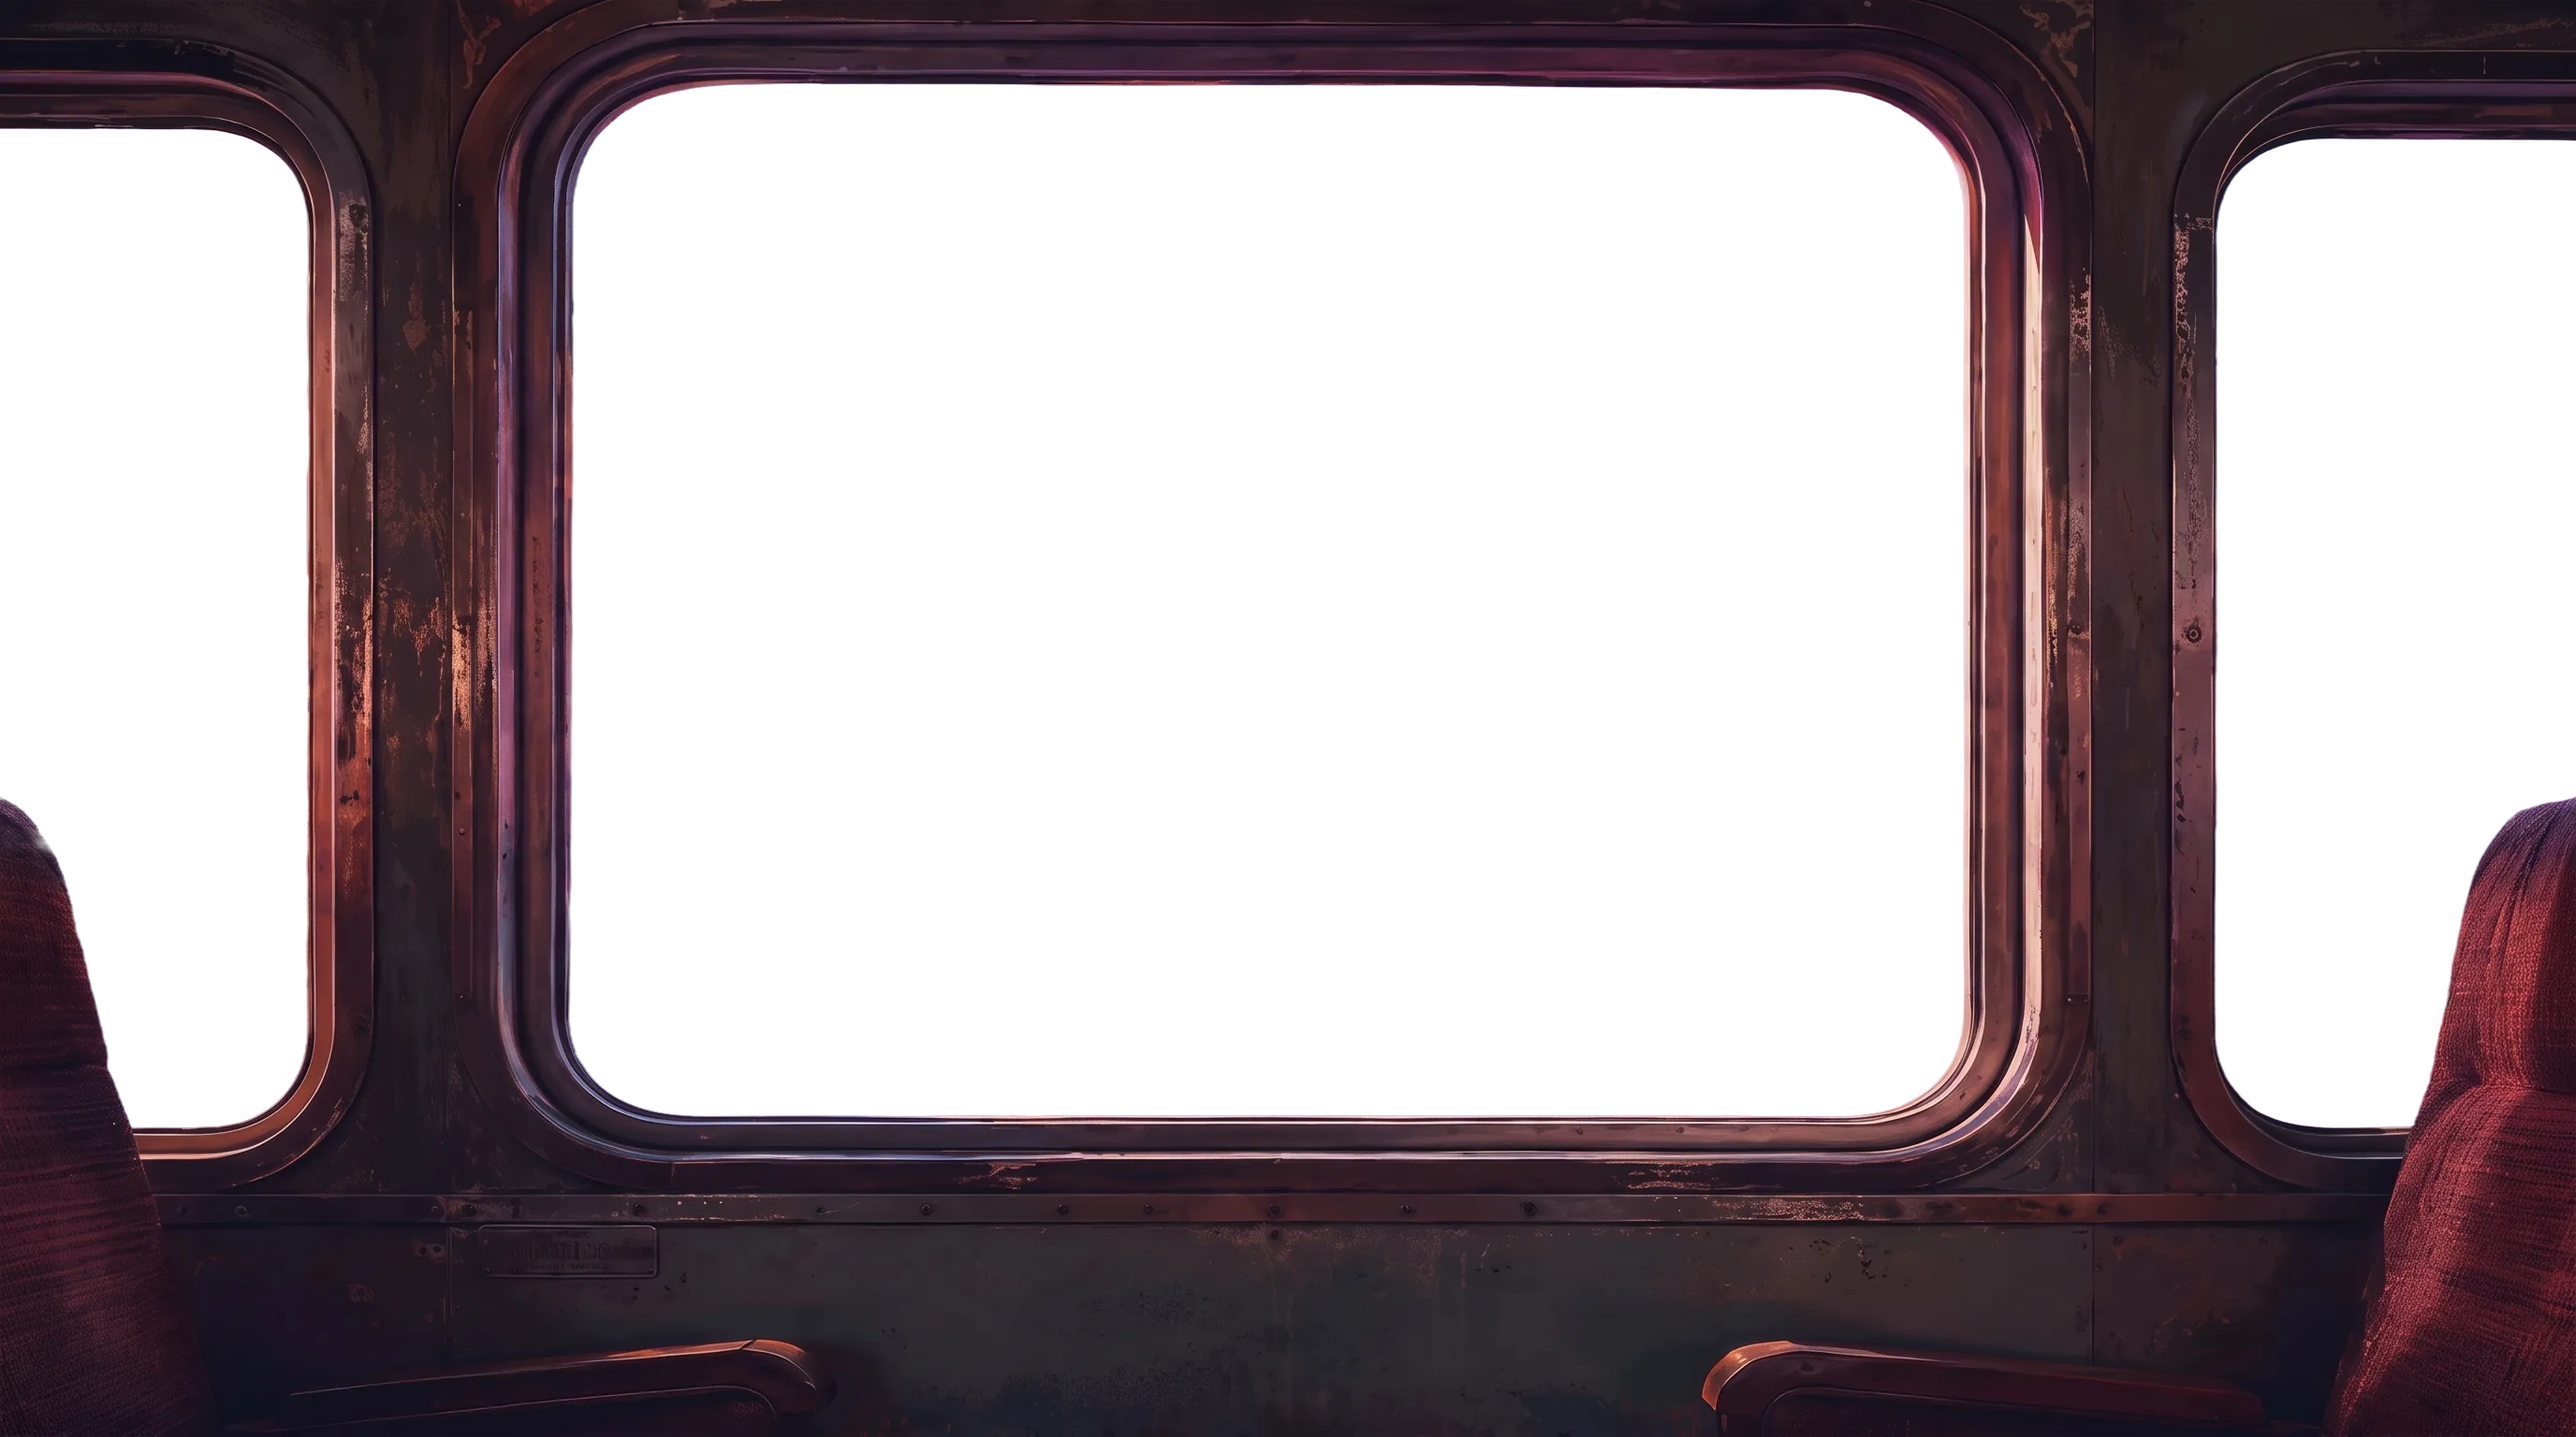
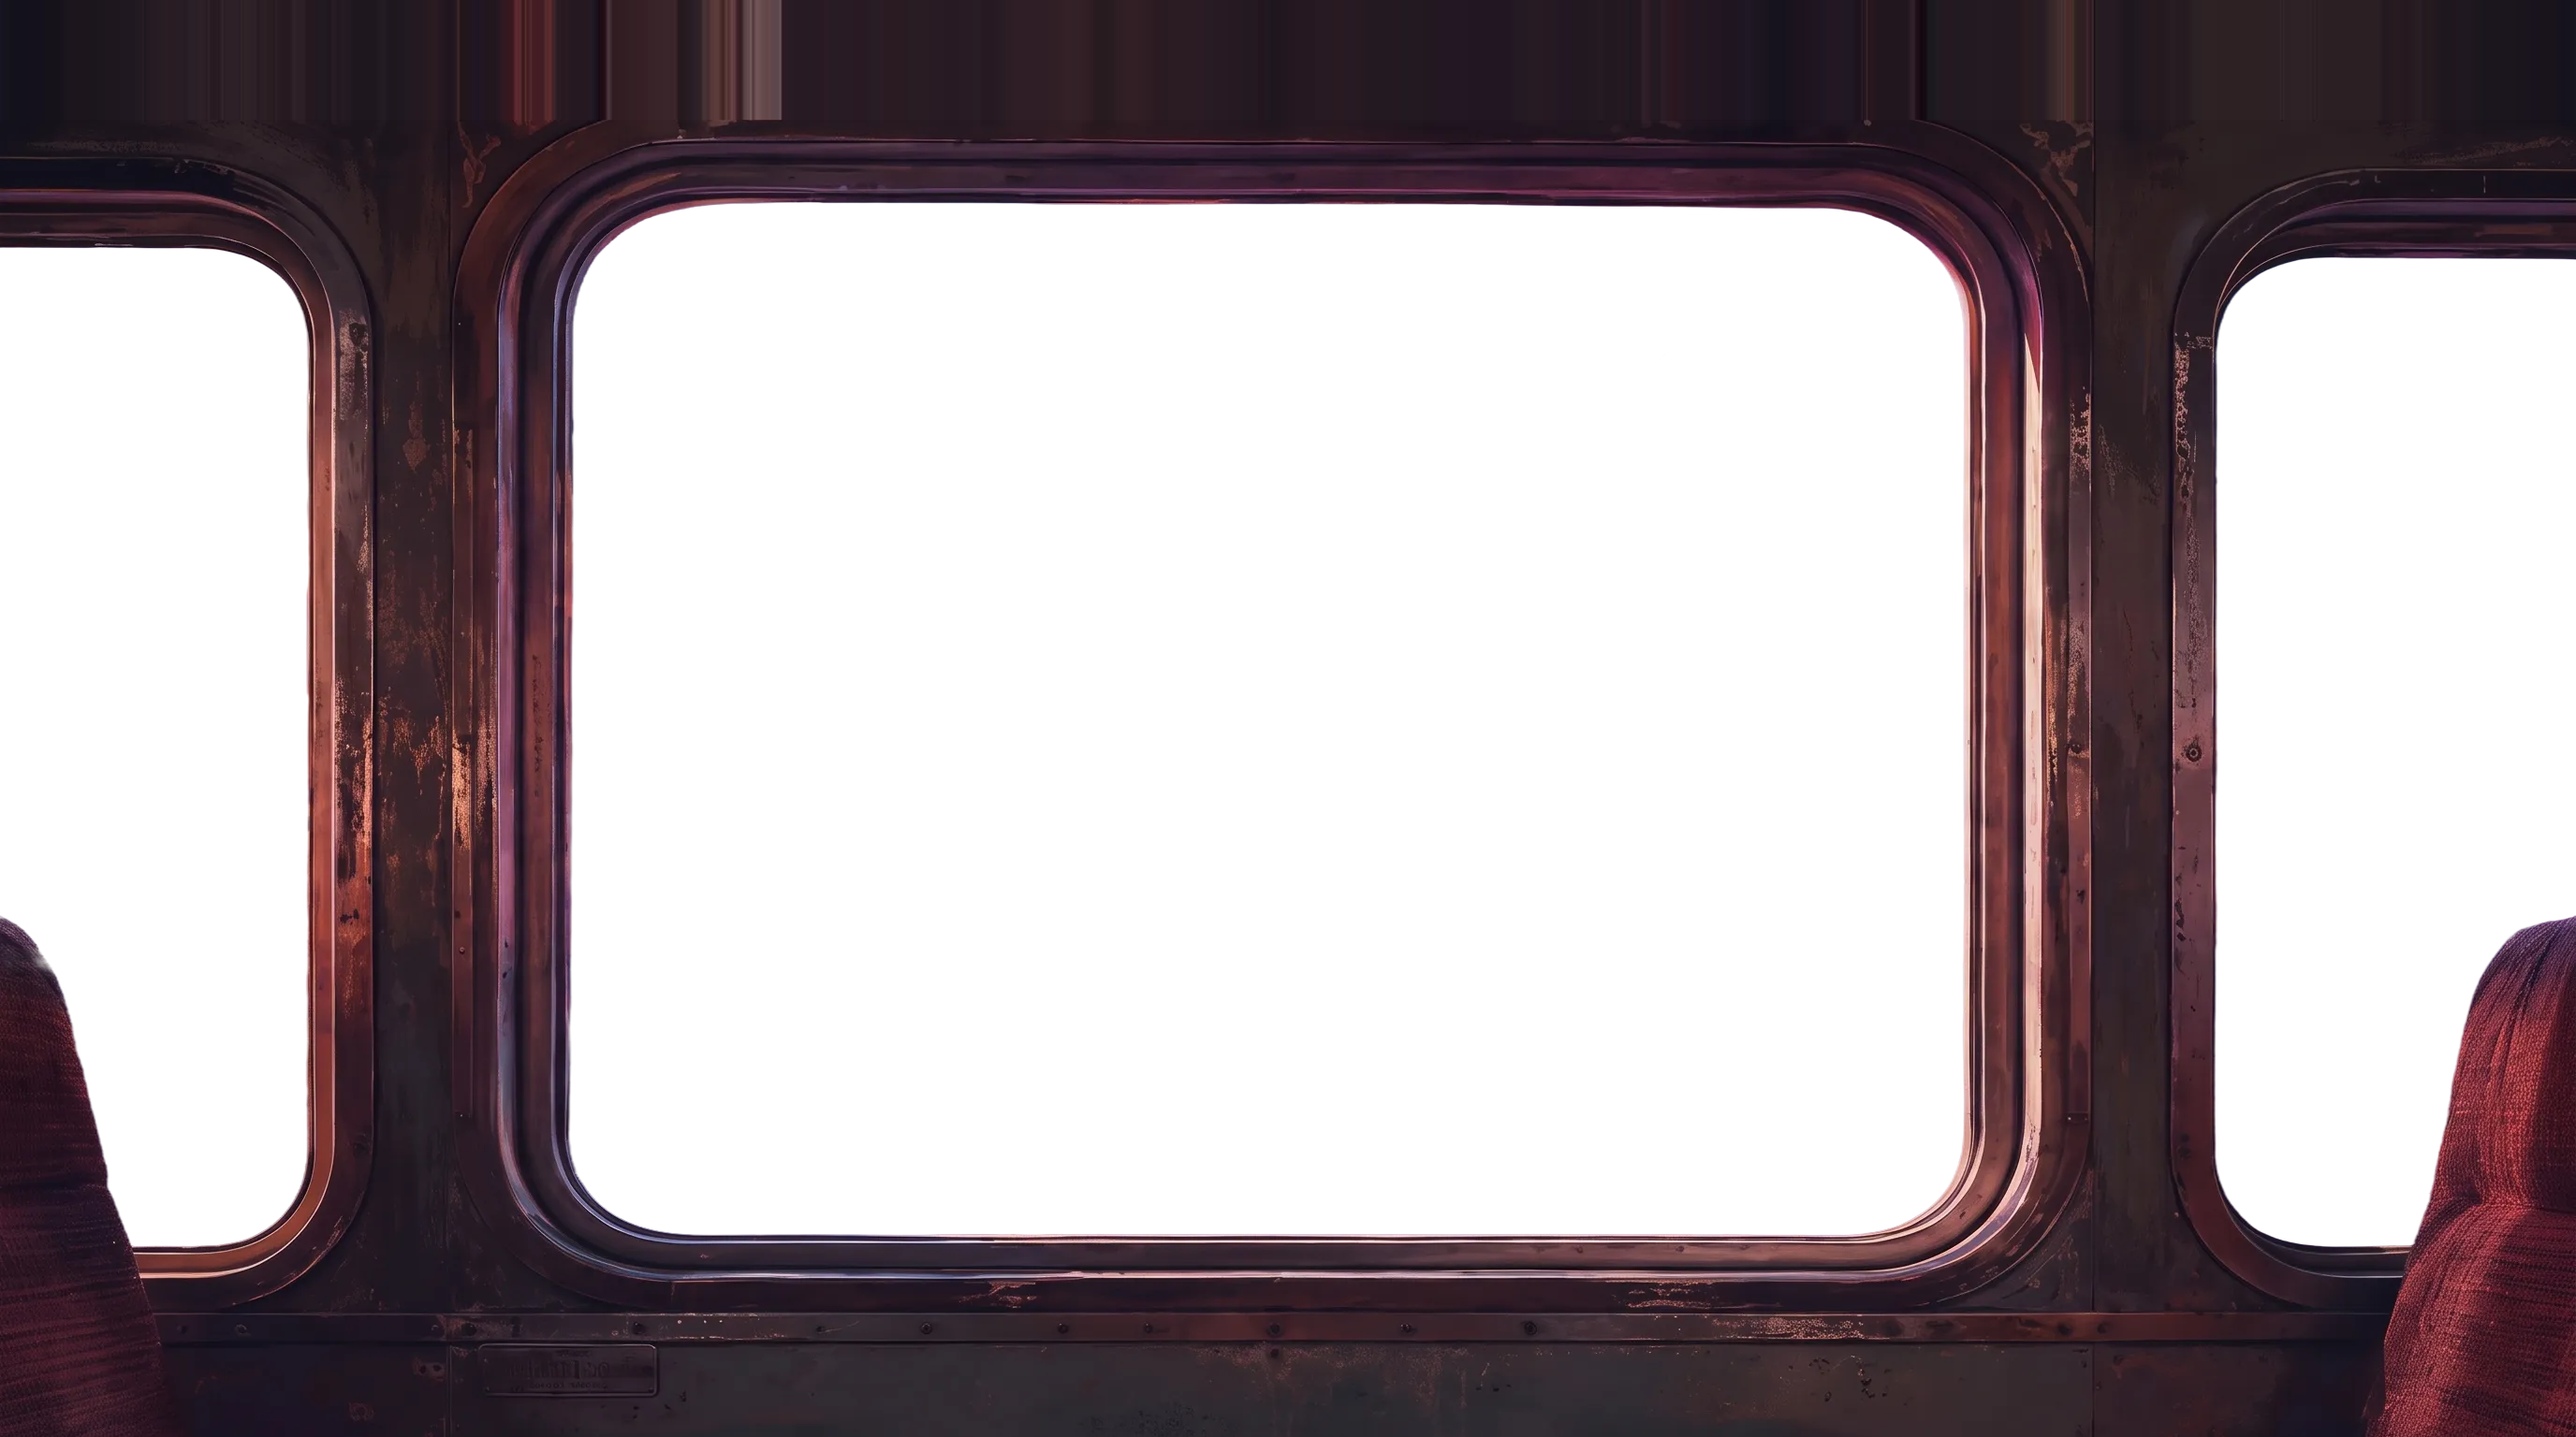
fix(hero): center window opening vertically in overlay PNG for 1:1 pixel-perfect top and bottom metallic frame symmetry

diff --git a/src/components/home/cinematic-hero.tsx b/src/components/home/cinematic-hero.tsx
@@ -199,12 +199,12 @@ export function CinematicHero({
           onVideoReady={() => setIsInitialVideoLoaded(true)}
         />
 
-        {/* Standard Transparent PNG Overlay (z-index 2) - object-[center_41.7%] centers window so top/bottom metallic margins are equal */}
+        {/* Standard Transparent PNG Overlay (z-index 2) - object-cover object-center ensures pixel-perfect equal top & bottom metallic margins */}
         <div className="absolute inset-0 z-[2] pointer-events-none overflow-hidden">
           <img
             src={OVERLAY_IMAGE}
             alt="Train Window Frame"
-            className="w-full h-full object-cover object-[center_41.7%] pointer-events-none animate-train-bob"
+            className="w-full h-full object-cover object-center pointer-events-none animate-train-bob"
           />
         </div>
       </div>
